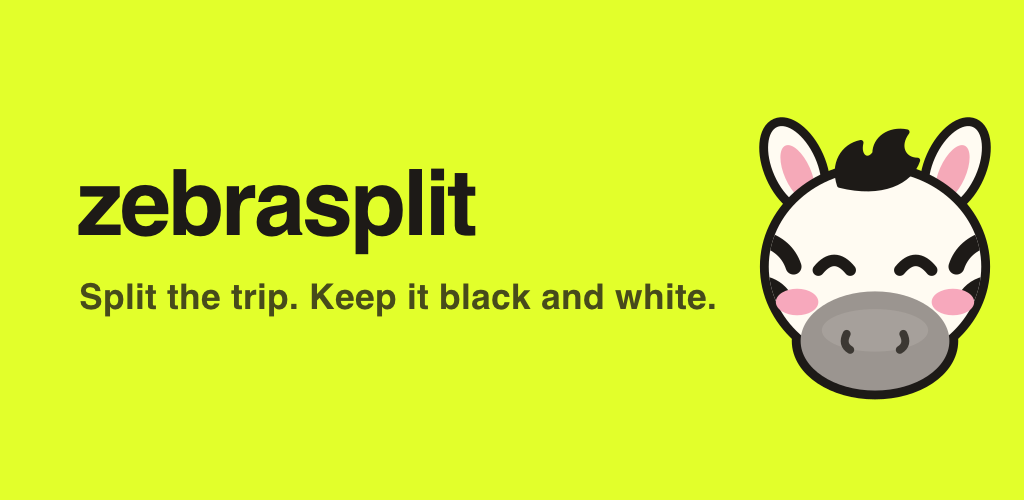
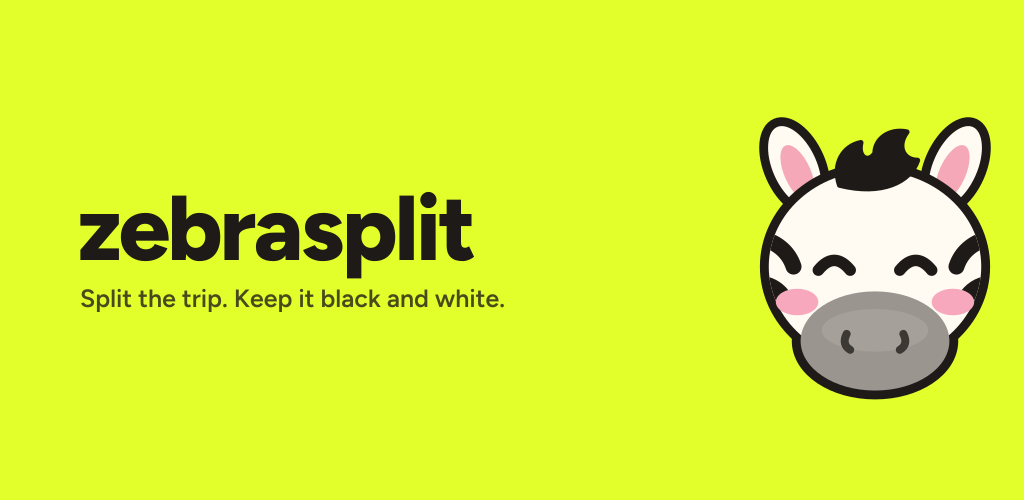
Play assets: real Figtree outlines, and the Android submit path
**The feature graphic's wordmark was never Figtree**, and the reason it went
unnoticed is that it still looked like a wordmark.

sharp draws text through pango, which resolves a font *description* through
fontconfig. This machine has no fontconfig config anywhere — not /etc/fonts, not
Homebrew's — so it initialises empty and resolves nothing. I proved it rather than
assumed it: the same string rendered with Figtree ExtraBold, Figtree Regular and IBM
Plex Mono as `fontfile` gives byte-identical PNGs, and so do Helvetica, Courier and
Times. The `fontfile` option is ignored outright. Writing a minimal fonts.conf and
pointing FONTCONFIG_FILE at it changed nothing either, so that dead end is not in the
script.

The type is now drawn as **glyph outlines read from the TTF** with opentype.js. No
system font stack, no fontconfig, same bytes on any machine, and the wordmark is
genuinely Figtree ExtraBold at the brand's -0.03em tracking.

**A bug worth naming**, because it is silent and it cost the tagline: opentype.js
emits `NaN` coordinates when the pen position carries floating-point noise. x =
101.925 is fine; x = 101.92500000000001 is not. One NaN kills the remainder of the
path, so the tagline rendered as "Split the t" — a plausible-looking truncation
rather than an error. The pen is rounded to a thousandth of a pixel each step, and
the loop now throws on NaN rather than letting a half-drawn asset through.
[…]

Changed region(s): [[0.0625, 0.33, 0.6875, 0.63]]

diff --git a/secrets/README.md b/secrets/README.md
@@ -1,0 +1,14 @@
+# secrets/
+
+Credential files that EAS needs at submit time and that must never be committed.
+
+| File | What it is | Where it comes from |
+|---|---|---|
+| `play-service-account.json` | Google Play Android Publisher service account key | Google Cloud console → service account with the **Android Publisher** role → JSON key, then invite that address in Play Console → Users and permissions |
+
+The directory is gitignored apart from this file. `apps/mobile/eas.json` points
+`submit.production.android.serviceAccountKeyPath` at the path above.
+
+`google-services.json` (Firebase, for push) is **not** kept here — it belongs at
+`apps/mobile/google-services.json`, where the Expo config plugin expects it, and is
+gitignored there.
